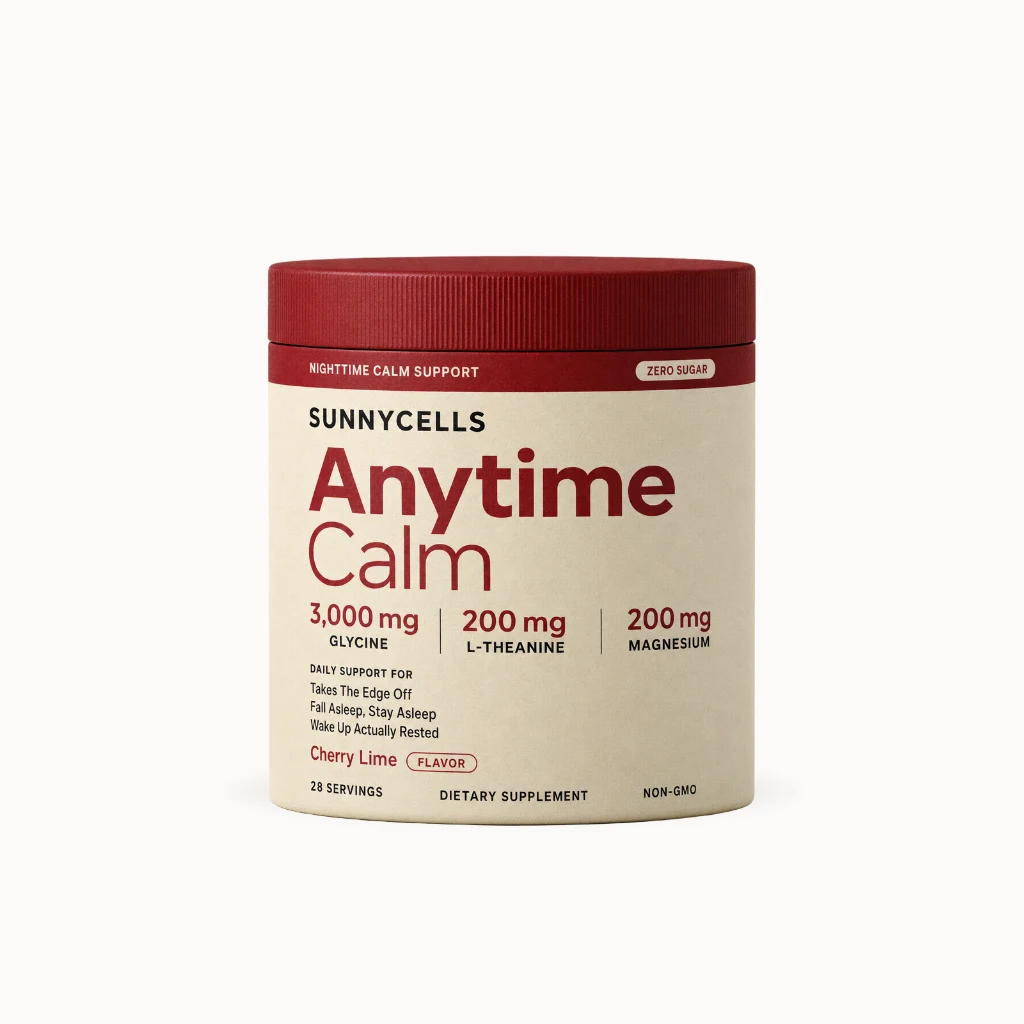
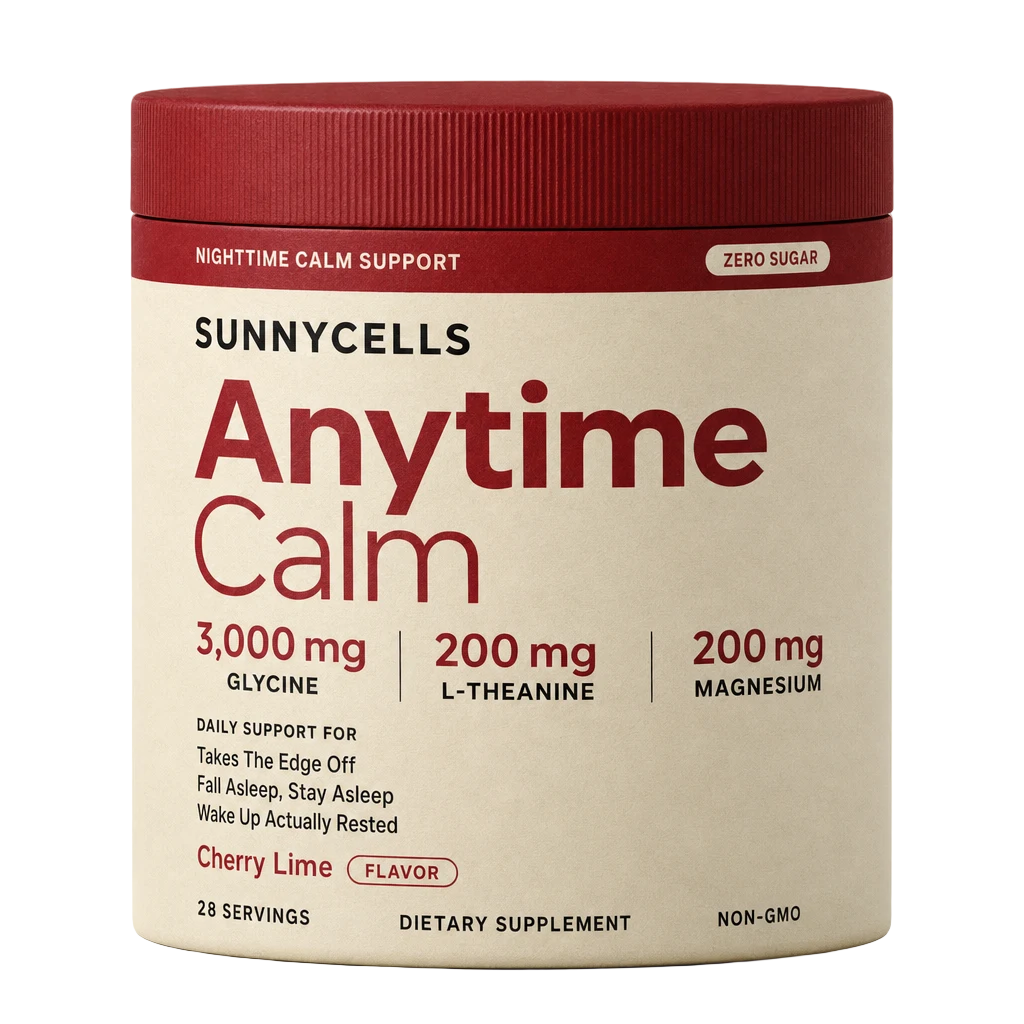
Give the Anytime Calm product shots a transparent ground
Every standalone shot of the tub now carries an alpha channel, so it sits on
whatever surface is behind it: the sun tint on the quiz landing page, the mint
card on the recommended plan, white in the gallery. Before this it sat on the
studio ground it was shot on, which read as a white slab on both tinted
surfaces.

The five affected are the hero, the three plan-card packs and the gallery
angle. The hero and the angle were matted with a real segmentation model
rather than the repo's colour-flood cutout: the lit left side of the cream tub
measures 16 apart from the studio background in L1, so no colour threshold can
separate them, and scripts/cutout.mjs ate half the tub trying.

The packs are composited from the cut-out master rather than matted
individually, which is also why their labels are pixel identical.

Encoded with cwebp -exact. Without it the encoder rewrites the RGB under fully
transparent pixels for compression, which is a change worth not making to an
image that gets re-encoded again downstream.

Also fixes the plan cards saying "/jar" and "jars", inherited from the funnel
this one was cloned from. It is a tub.

diff --git a/components/calm-quiz/CalmPlanCards.tsx b/components/calm-quiz/CalmPlanCards.tsx
@@ -93,7 +93,7 @@ export function CalmPlanCards({
 
             <Image
               src={p.image}
-              alt={`${p.months} ${p.months === 1 ? "jar" : "jars"} of ${PRODUCT.title}`}
+              alt={`${p.months} ${p.months === 1 ? "tub" : "tubs"} of ${PRODUCT.title}`}
               width={1200}
               height={1200}
               style={{ width: "100%", height: "auto", maxHeight: 150, objectFit: "contain" }}
@@ -105,16 +105,16 @@ export function CalmPlanCards({
               <span style={{ fontFamily: "var(--font-display)", fontWeight: 900, fontSize: 40, letterSpacing: "var(--tracking-display)", lineHeight: 1 }}>
                 ${p.price}
                 {/* Tight against the figure it qualifies, and only where more than one
-                    jar arrives: on a single jar the price is the whole thing. */}
+                    tub arrives: on a single tub the price is the whole thing. */}
                 {p.months > 1 && (
                   <span style={{ fontFamily: "var(--font-text)", fontSize: "var(--size-meta)", fontWeight: 600, color: "var(--ink-60)", letterSpacing: 0 }}>
-                    /jar
+                    /tub
                   </span>
                 )}
               </span>
               <span style={{ fontFamily: "var(--font-display)", fontWeight: 700, fontSize: 26, color: "var(--ink-60)", textDecoration: "line-through", letterSpacing: "-0.02em" }}>
                 {/* The list price for everything in the box: the one month figure times
-                    the jars that arrive. The longer supplies come in under half of it,
+                    the tubs that arrive. The longer supplies come in under half of it,
                     which is why each card prints its own percentage below. */}
                 ${p.compareAt * p.months}
               </span>

diff --git a/lib/products/anytime-calm.ts b/lib/products/anytime-calm.ts
@@ -41,6 +41,10 @@ export const FIRST_ORDER = formatPrice(firstOrderPrice(50));
 
 const IMG = "/products/anytime-calm";
 
+/* The pack shots carry an alpha channel: they are composited from one cut-out master so
+   the tubs sit on whatever the card behind them is, not on a white square. Encoded with
+   cwebp -exact, which keeps the RGB under fully transparent pixels rather than letting
+   the encoder rewrite it for compression. */
 export type SupplyPlan = {
   id: string;
   months: number;
